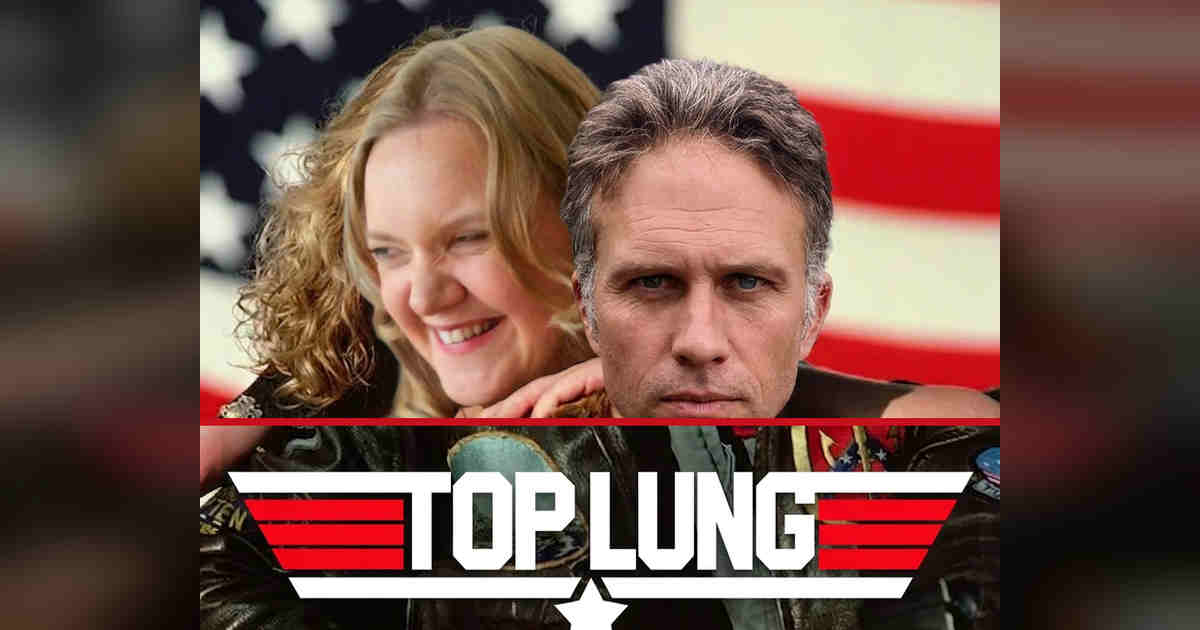
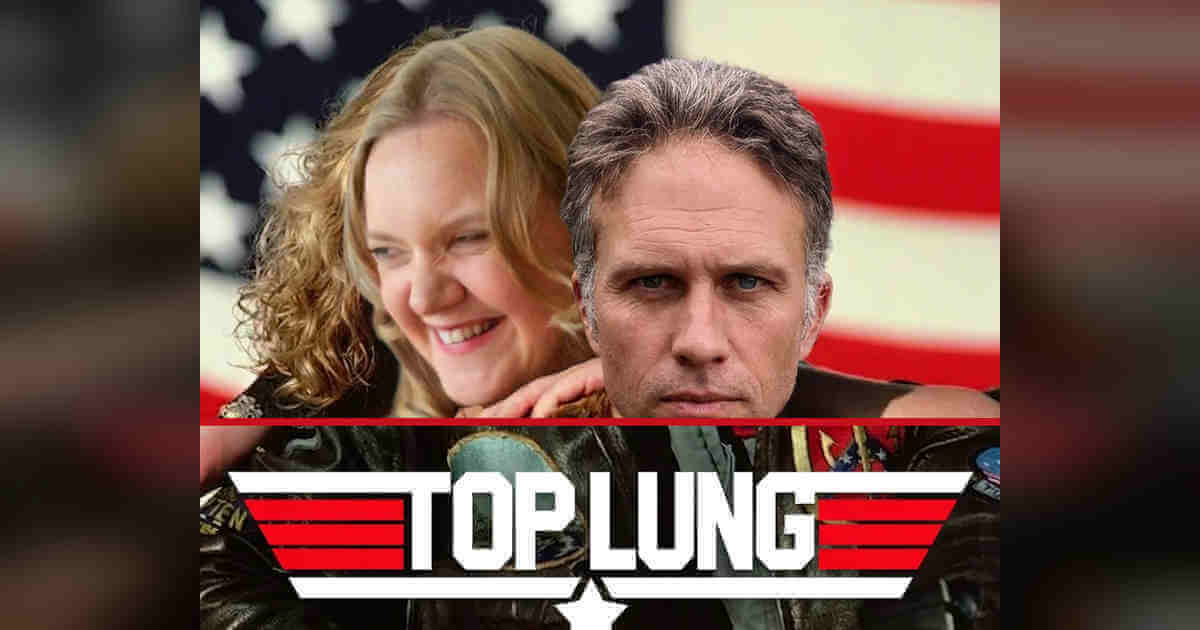
chore: edits

diff --git a/blog/2026-09-25-take-my-breath-away/index.md b/blog/2026-09-25-take-my-breath-away/index.md
@@ -8,7 +8,7 @@ hide_table_of_contents: false
 slug: take-my-breath-away
 ---
 
-It was at 5:30am on Wednesday August 12th, that Lisette and I found ourselves Ubering from our home in Twickenham, to the Royal Brompton Hospital in Chelsea.  I'd had good news on my recent scans.  The tumour in my colon had shrunk, and the one in my lung wasn't showing up. This made the doctors feel it was safe to "finish the job".
+It was at 5:30am on Wednesday August 12th, that Lisette and I found ourselves Ubering from our home in Twickenham, to the Royal Brompton Hospital in Chelsea.  I'd had [good news](../2026-08-01-hope/index.md) on my recent scans.  The tumour in my colon had shrunk, and the one in my lung wasn't showing up. This made the doctors feel it was safe to "finish the job".
 
 {/*truncate*/}
 
@@ -26,7 +26,7 @@ Not for the first time in my recovery journey, I found myself deciding to defer 
 
 So, that's how Lisette and I found ourselves heading into hospital that morning. I was mulling what I should call this post.  *"The one where they cut out some of my breathing bits"* didn't appeal. Then I was reminded of the classic song from Top Gun; Berlin's *["Take my breath away"](https://www.youtube.com/watch?v=Bx51eegLTY8)*.  It seemed to sum up my situation up gloriously. I'm not using AI to write these words.  But the image below, well I can only take credit for the idea.
 
-![Take off of the Top Gun poster but rebranded as Top Lung with me replacing Tom Cruise and Lisette replacing Kelly McGillis](./top-lung.jpg)
+![Take off of the Top Gun poster but rebranded as Top Lung with me replacing Tom Cruise and Lisette replacing Kelly McGillis](./top-lung.webp)
 
 ## Buylingual
 
@@ -34,13 +34,13 @@ I was to be admitted to the Sir Reginald Wilson ward of the Royal Brompton; a ho
 
 Before last year, I'd had no experience of private healthcare at all; having been happily cared for by the NHS since my birth.  For those reading this who don't know what the "NHS" is; it's the [National Health Service](https://en.wikipedia.org/wiki/National_Health_Service) and it is the organisation that serves the health of UK citizens most admirably, and has done for many years. It is much loved.  Saying something bad about the NHS is considered akin to blasphemy in the UK. Probably worse.
 
-In the UK at least, private healthcare and the NHS can be compared to the class of ticket you have for a flight. Whether it's private healthcare or the NHS, the treatment is likely to be identical. The people that treat you may be the same, the medication / procedures you experience are likely to also be the same. Just as on a plane, regardless of whether you're travelling in first class or economy, you're still flying to Palma De Mallorca.  (Or wherever, I mention that as an airport that I have flown to many times to visit family.) 
+In the UK at least, private healthcare and the NHS can be compared to the class of ticket you have for a flight. Whether it's private healthcare or the NHS, the treatment is likely to be identical. The people that treat you may be the same, the medication / procedures you experience are likely to also be the same. Just as on a plane, regardless of whether you're travelling in first class or economy, you're still flying to Palma de Mallorca.  (Or wherever, I mention that as an airport that I have flown to many times to visit family.) 
 
 However, there are two differences between private healthcare and the NHS that are worth drawing attention to.
 
 ### 1. Speedy boarding
 
-You might get to board earlier, or get treated earlier, with a first class ticket / private healthcare. Whilst that's arguably a nicety for the purposes of travel, it's really significant for cancer diagnosis. As the faster you get treated, the less the treatment is likely to suck.  (Note to all: cancer treatment is reliably an unjoyful experience at any level. I encourage you to reduce the risk of sadness to a minimum by all means. If you have the opportunity for a scan; have it.) 
+You might get to board earlier, or get treated earlier, with a first class ticket / private healthcare. Whilst that's arguably a nicety for the purposes of travel, it's really significant for cancer diagnoses. As the faster you get treated, the less the treatment is likely to suck.  (Note to all: cancer treatment is reliably an unjoyful experience at any level. I encourage you to reduce the risk of sadness to a minimum by all means. If you have the opportunity for a scan; have it.) 
 
 ### 2. Leg-room and refreshments
 
@@ -48,21 +48,21 @@ If you're a 190 centimetre / 6 foot 3 inches tall man, and I am, you'll be aware
 
 "I hope he's going somewhere with this", I can hear you muttering.   I am, I promise. 
 
-I'd like you to ask yourself this question: have you ever been to Wales?
+Consider this question: have you ever been to Wales?
 
-When you go to Wales, you'll quickly notice that roadsigns are typically marked in both English and in Welsh. Because there are people driving that speak English, and people driving that speak Welsh. A sight like this is common:
+When you go to Wales, you'll quickly notice that road signs are typically marked in both English and in Welsh. Because there are people driving that speak English, and people driving that speak Welsh. A sight like this is common:
 
 ![Photo of Welcome to Wales in English and Welsh](./welcome-to-wales.avif) 
 
 A similar approach was in place throughout the Sir Reginald Wilson ward.  All signs were displayed in English and ... Arabic. I know, I didn't see that coming either!
 
-![Photo of room 28 with English and Arabic signs](./room-28.jpg)
+![Photo of room 28 with English and Arabic signs](./room-28.webp)
 
 What were we to conclude from this?  At first we found ourselves wondering "why don't the Welsh like private healthcare?"  Thinking further, we pondered "perhaps Arabic speakers are more likely to purchase private healthcare and are also prone to health issues which affect their hearts and / or lungs?"  
 
 The answer turned out to be a little less from column A, and a little more from column B.
 
-My room overlooked a small forest of trees and [St Luke's Church](https://en.wikipedia.org/wiki/St_Luke%27s_Church,_Chelsea); where Charles Dickens married Catherine Hogarth back in 1836. One day, as we sat there, I put the question to one of the nurses who was in my room taking my blood pressure: 
+My room overlooked a small forest of trees and St Luke's Church. Apropos of nothing, St Luke's is where Charles Dickens married Catherine Hogarth back in 1836. One day, as we sat there, I put the question to one of the nurses who was in my room taking my blood pressure: 
 
 - "How come the signs are written in both English and Arabic?"
 - "You noticed! A significant proportion of our patients fly here from the Middle East on private planes."
@@ -71,7 +71,7 @@ This was not the answer I'd expected. But it stacked up.  To pass the time in th
 
 I encountered people that I'd guess were from the UK. Based on accents overheard, I encountered one man who was probably from the US. Alongside that I encountered many more examples of folk that could well be from the Middle East.  The TVs were playing Dubai TV / Kuwait TV and Rik TV.  Large boxes of dates could frequently be sighted, which made me quite peckish.  Dates are fabulous. The clothes worn were not London typical. I'm making assumptions here I know; I could be wrong. 
 
-![TV channels in the hospital room](./tv-channels.jpg)
+![TV channels in the hospital room](./tv-channels.webp)
 
 The visitor demographics lined up with what the nurse had said as well.  Whilst the English speakers would tend to have one visitor, or maybe two, at a time, the Arabic speakers tended to have around six.  If you're going to travel by private plane, why not bring everyone? At least in one case, it seemed that the trip to London might well have been medical treatment for one family member, but had been co-opted as a shopping trip by another.
 
